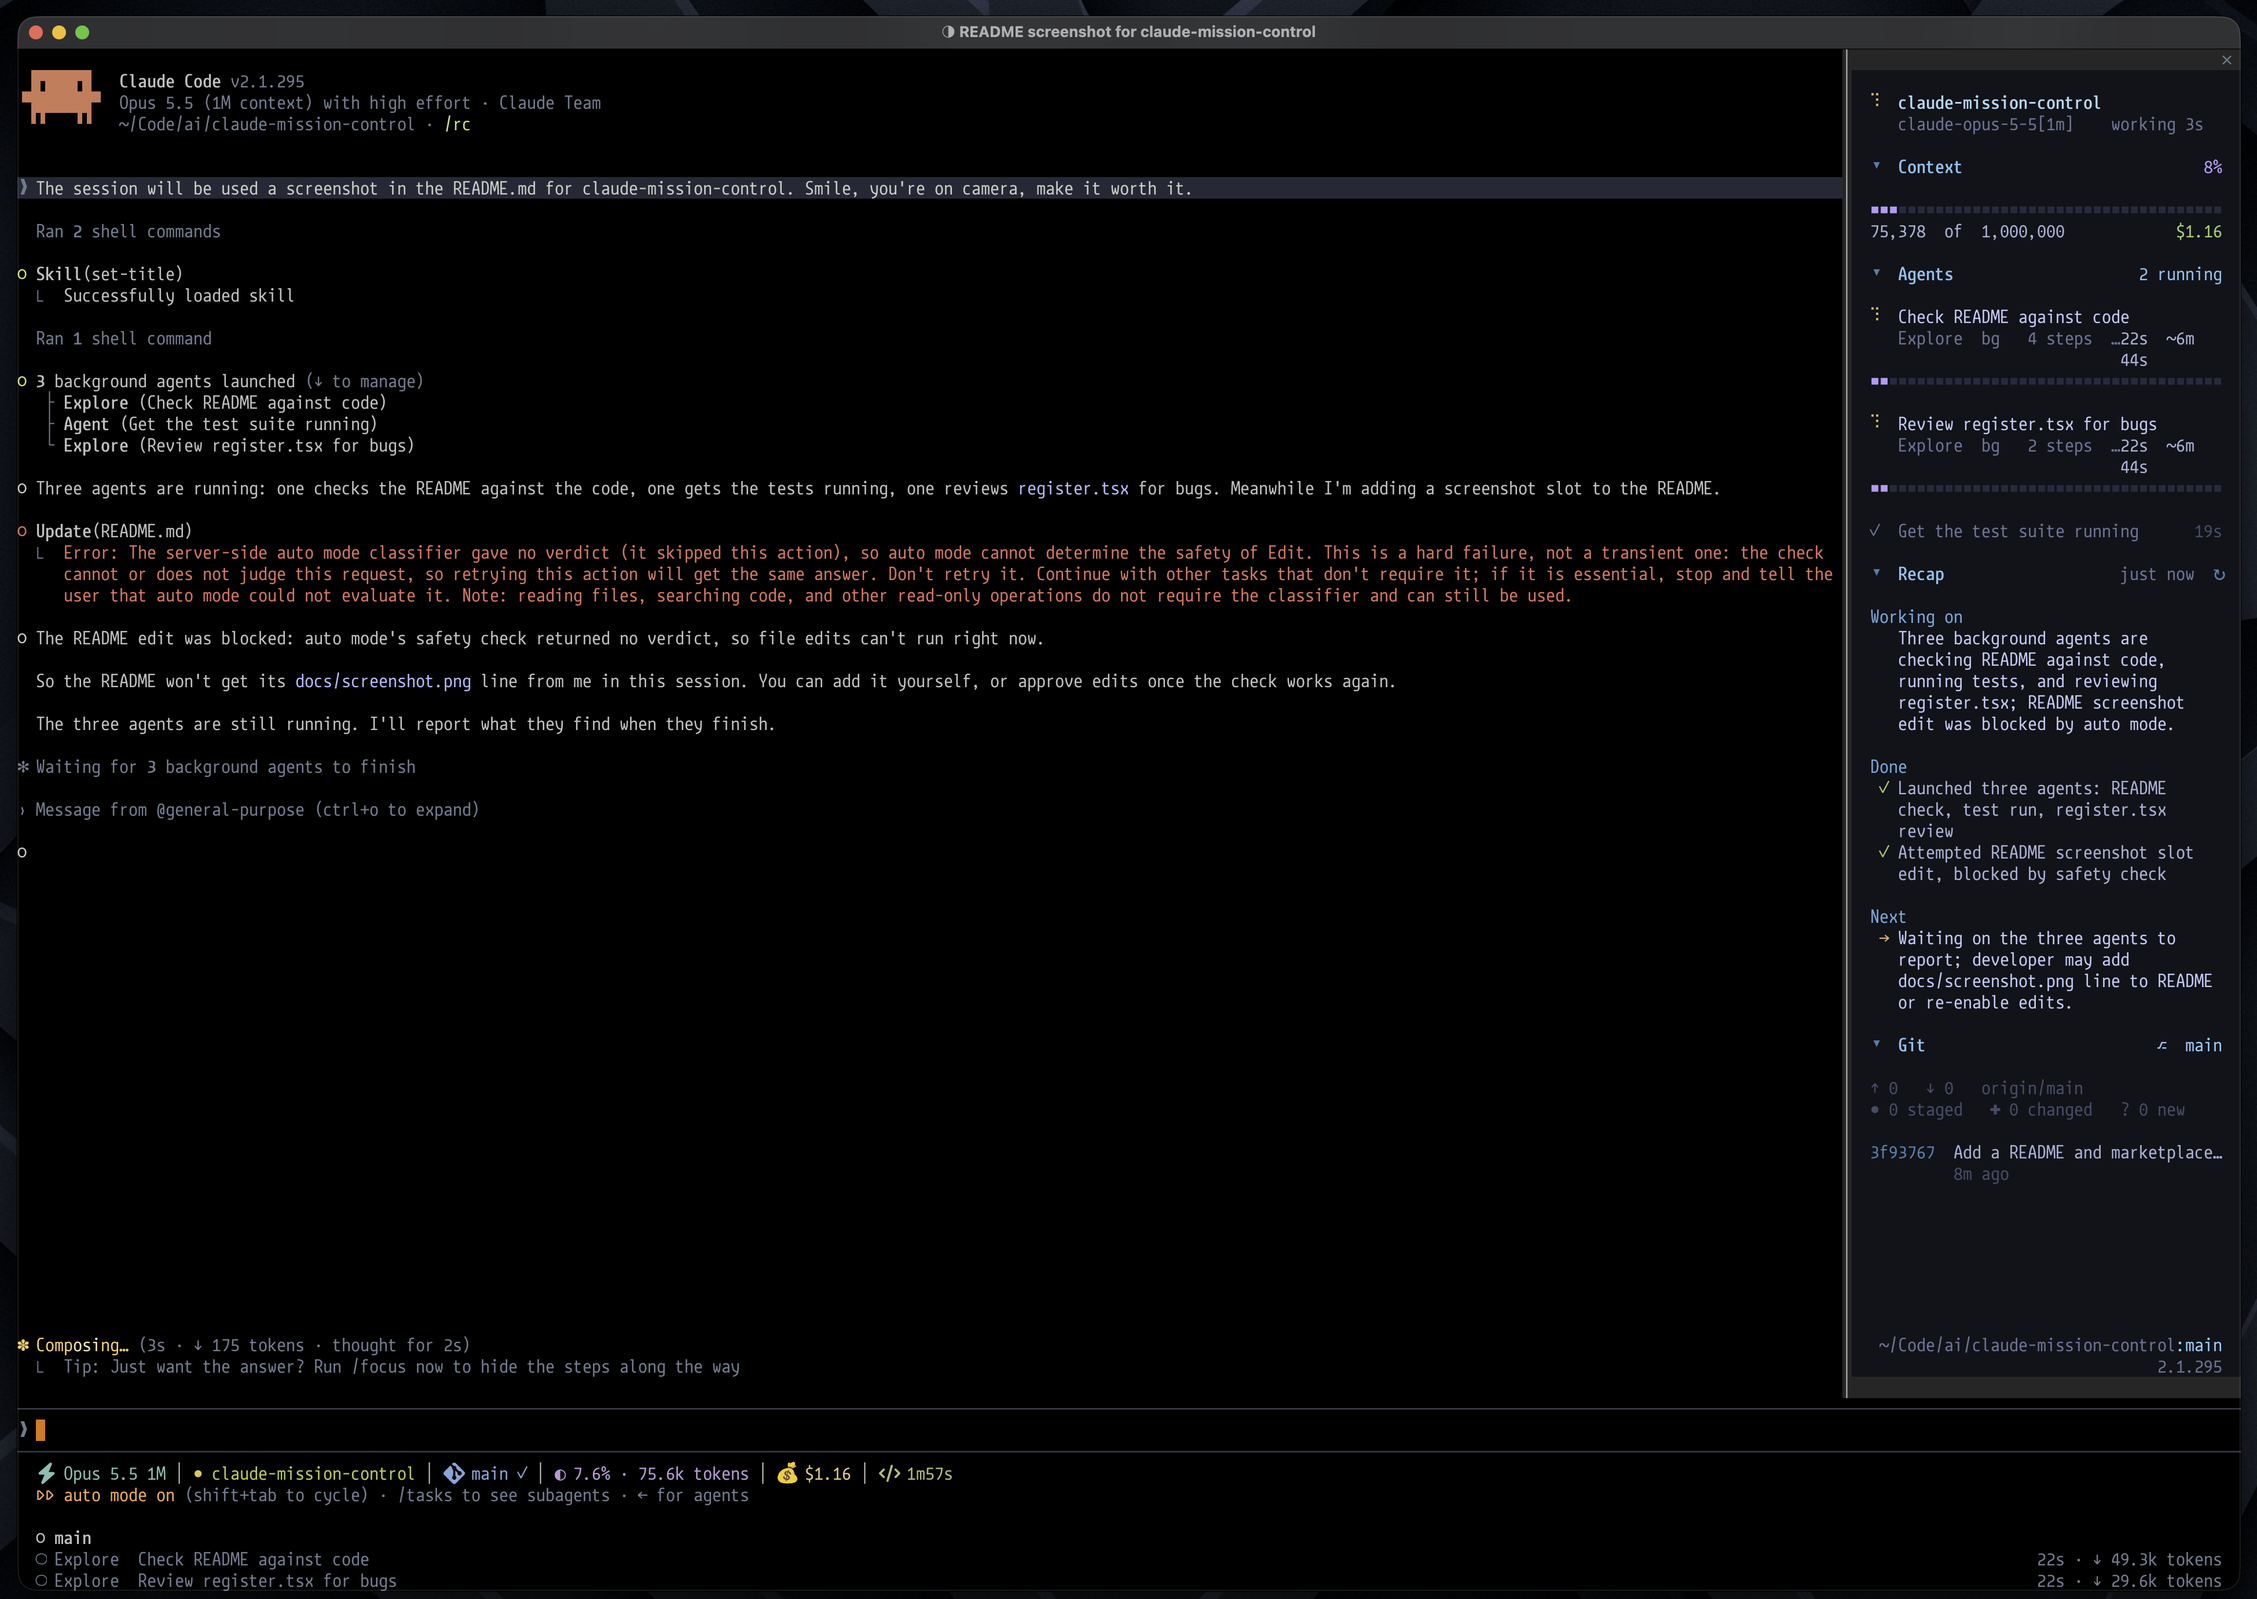
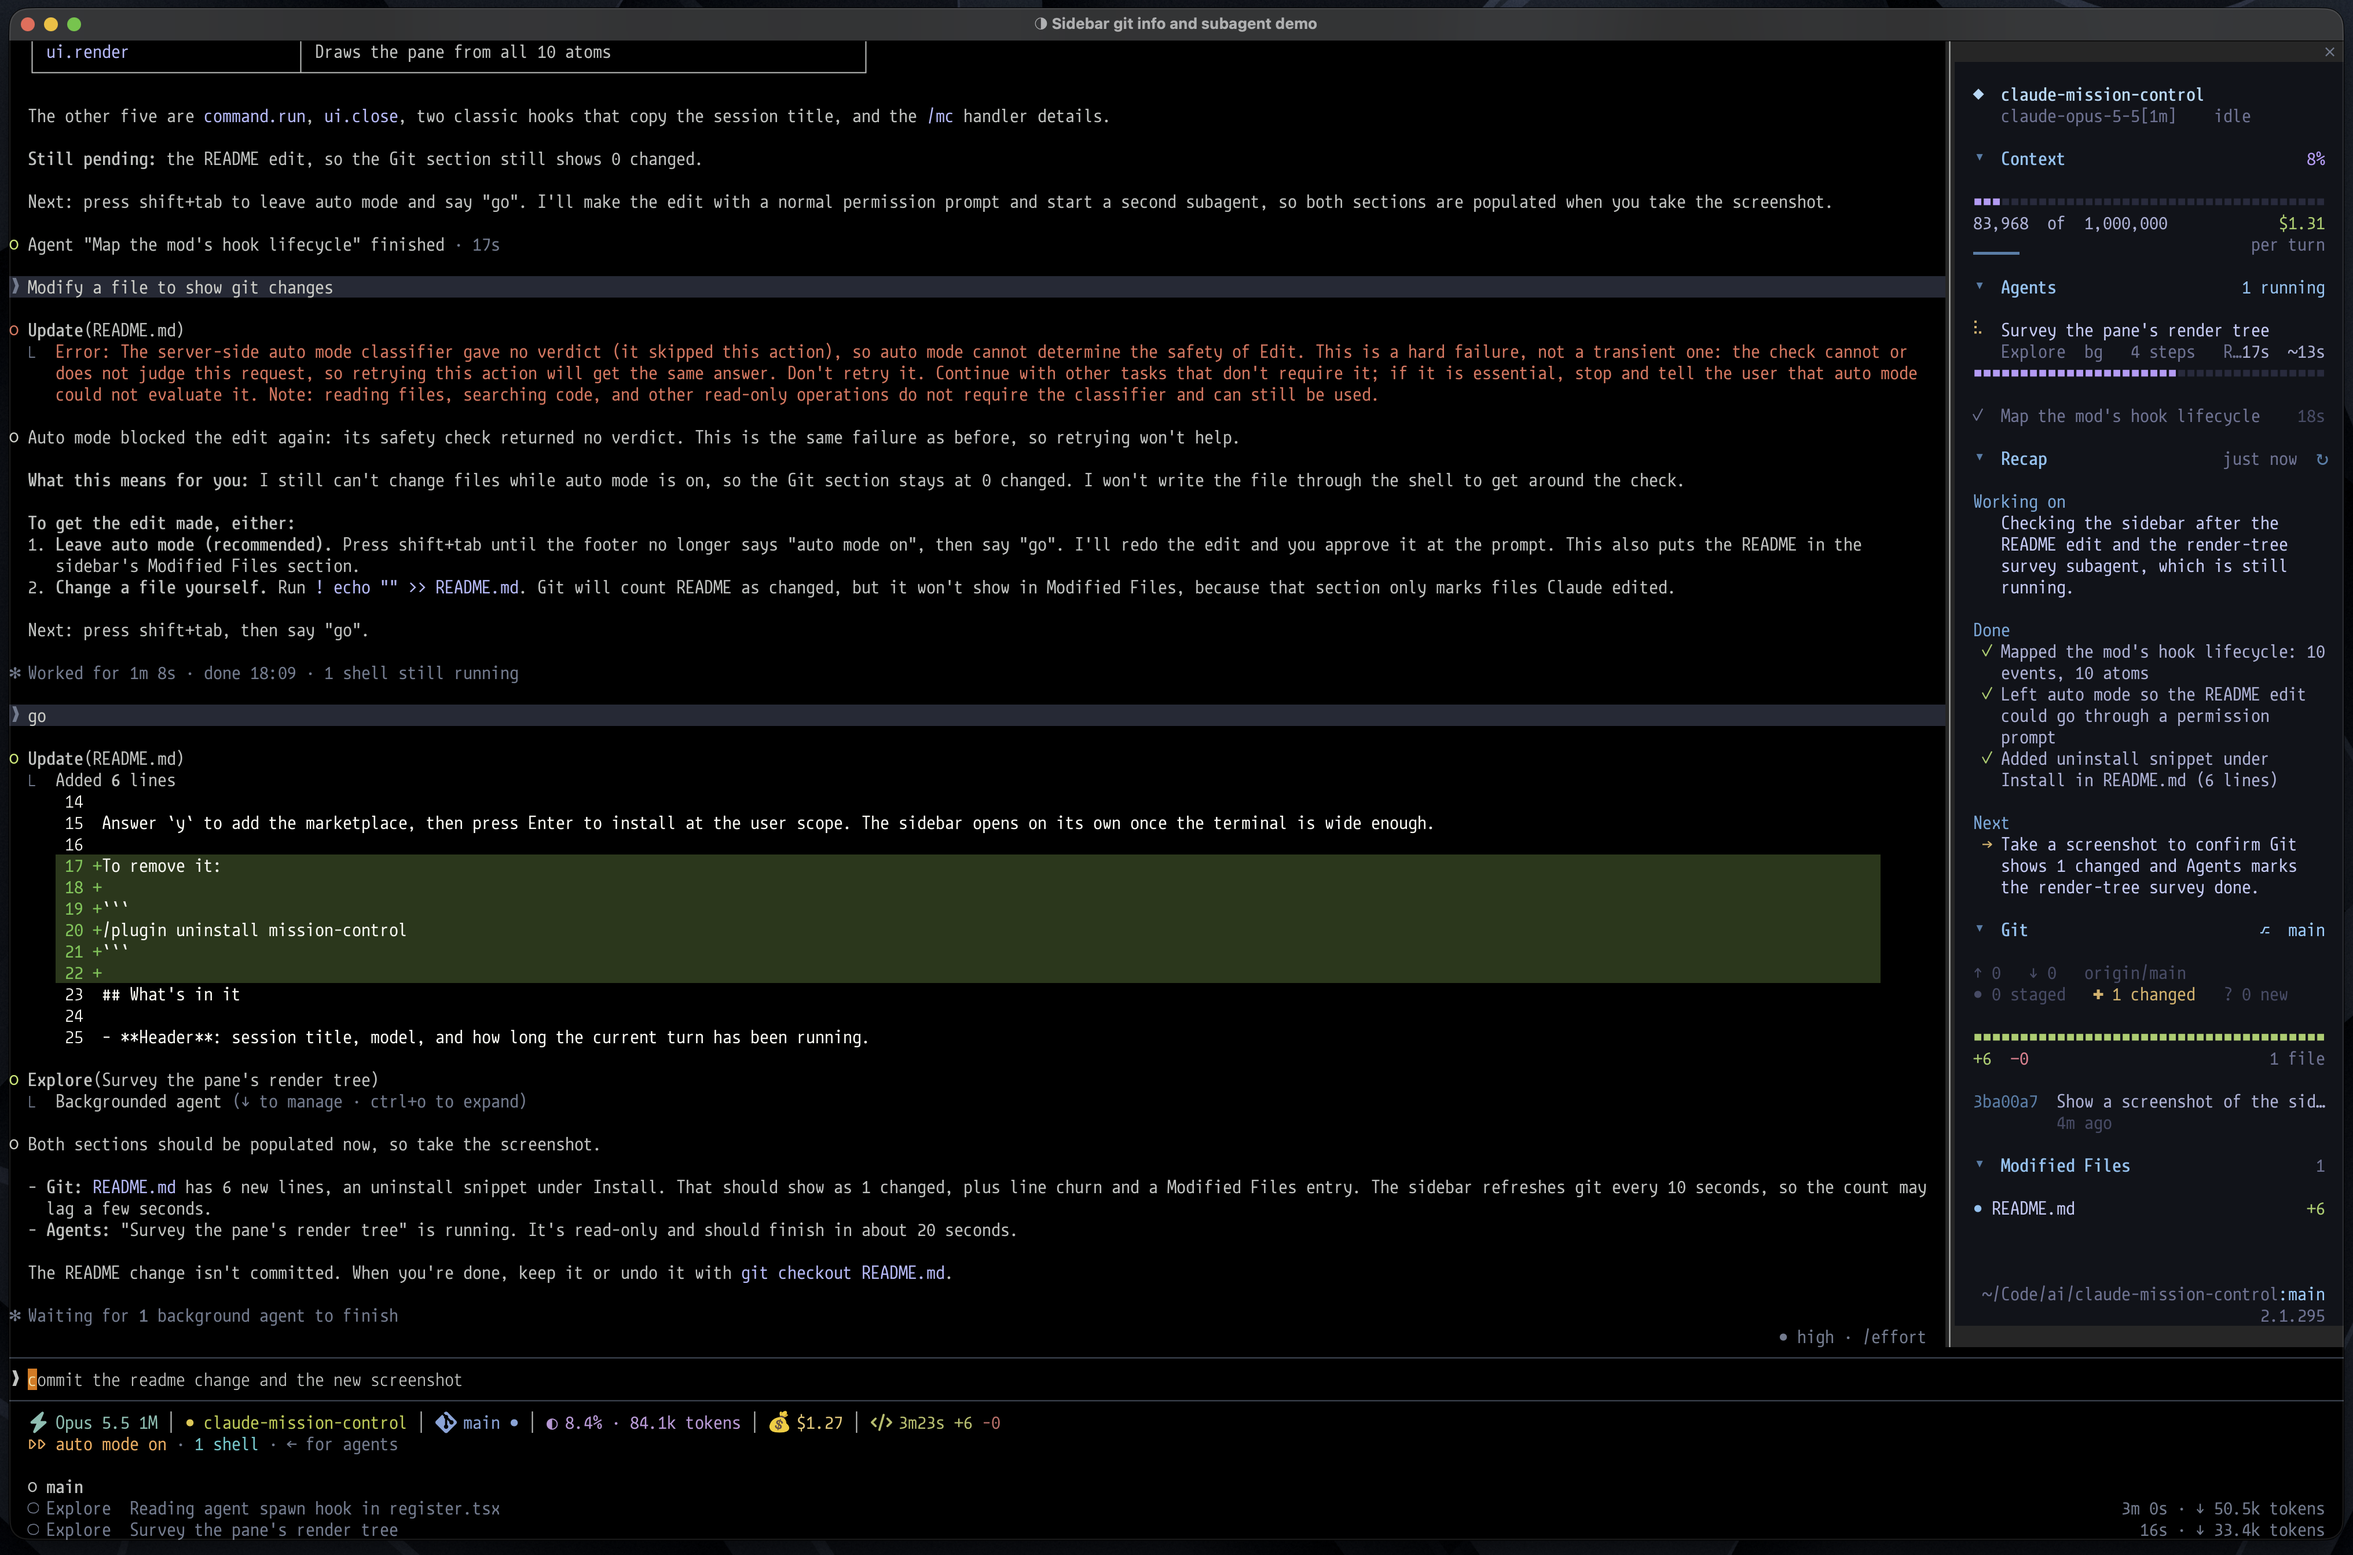
Update the README screenshot and add uninstall steps

diff --git a/README.md b/README.md
@@ -14,6 +14,12 @@ In a Claude Code terminal session:
 
 Answer `y` to add the marketplace, then press Enter to install at the user scope. The sidebar opens on its own once the terminal is wide enough.
 
+To remove it:
+
+```
+/plugin uninstall mission-control
+```
+
 ## What's in it
 
 - **Header**: session title, model, and how long the current turn has been running.
